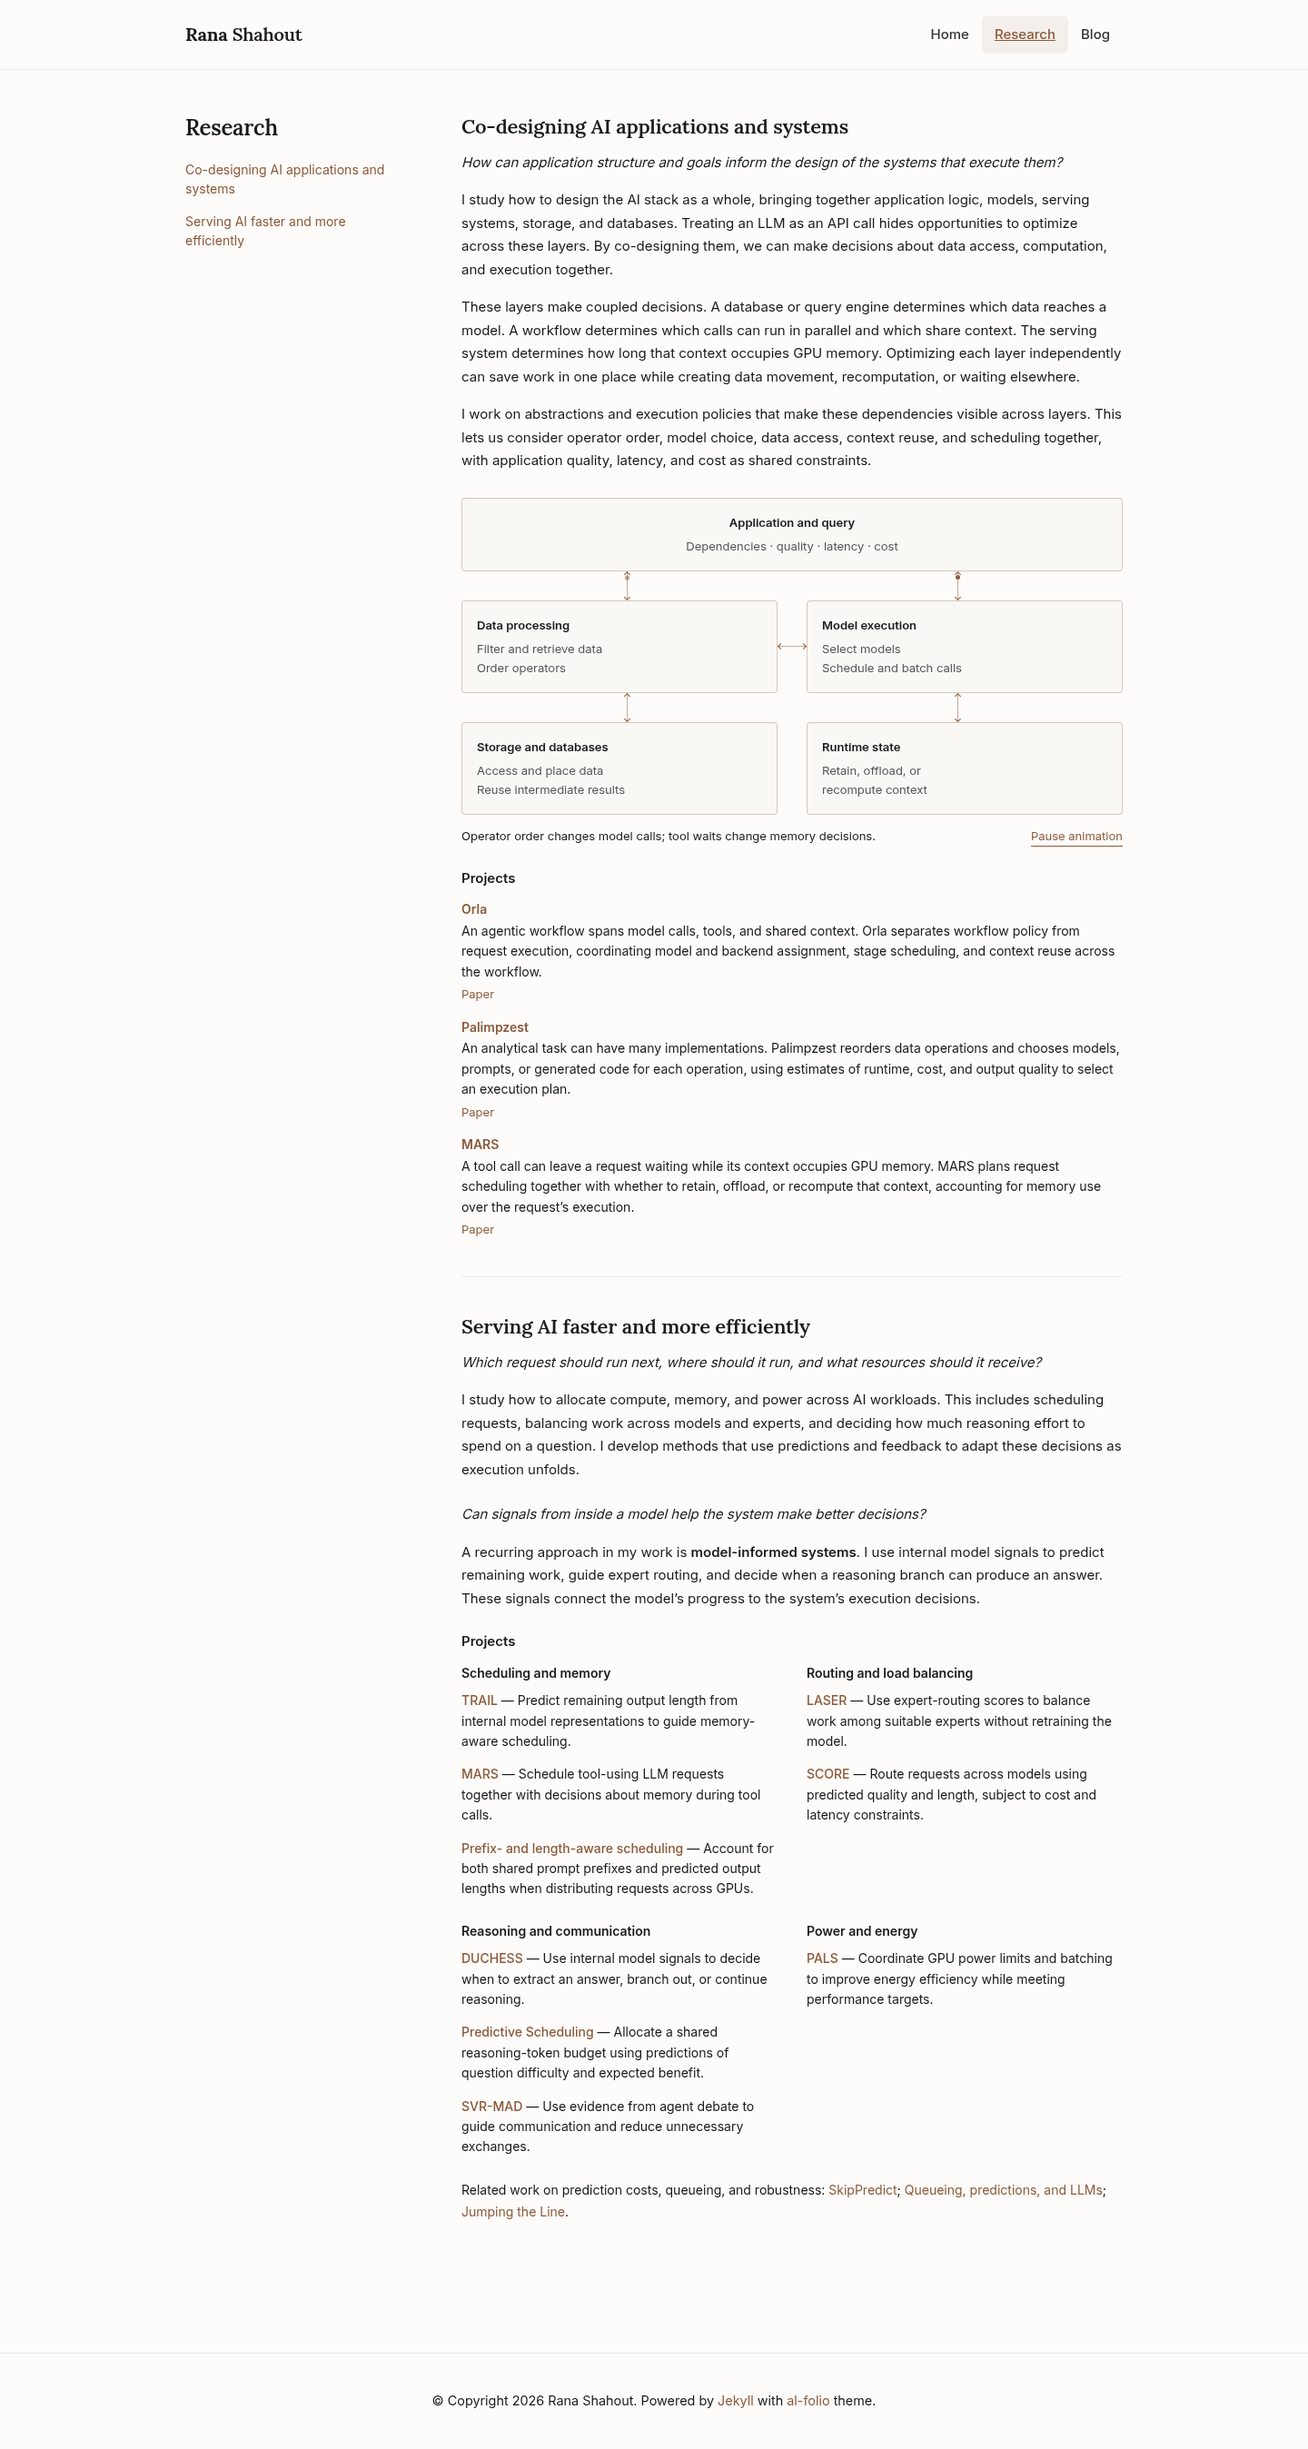
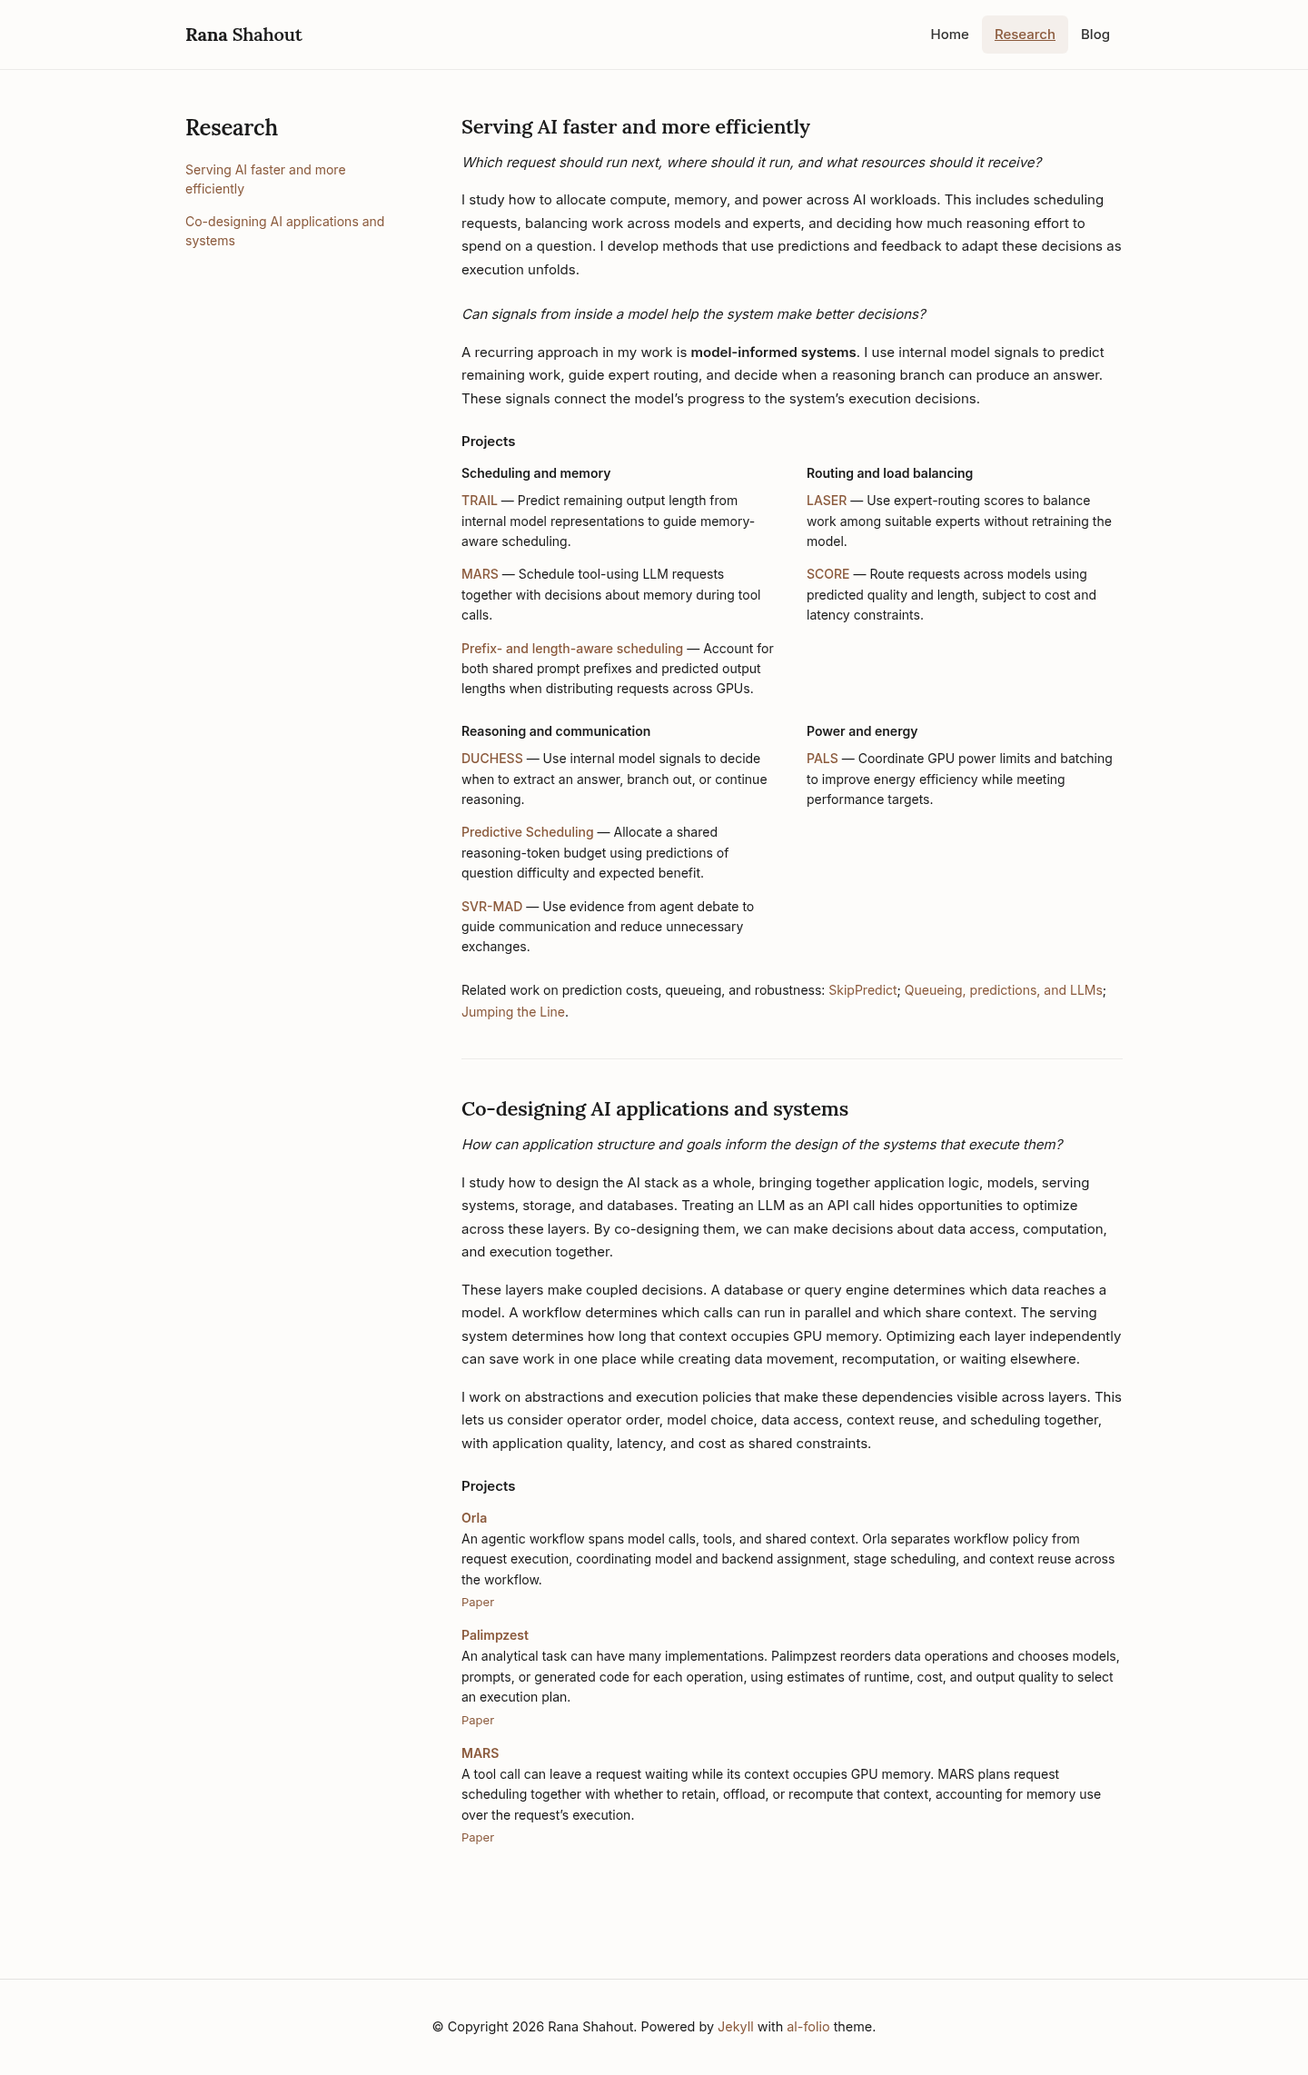
Lead research page with efficient serving and remove illustration

diff --git a/assets/css/research.css b/assets/css/research.css
@@ -300,195 +300,3 @@ body > header {
 .research-page .stack-explanation {
   margin-top: 1rem;
 }
-
-.stack-illustration {
-  margin: 1.75rem 0 0;
-}
-
-.stack-diagram {
-  font-size: 0.8125rem;
-  line-height: 1.6;
-}
-
-.stack-node {
-  display: flex;
-  flex-direction: column;
-  justify-content: center;
-  gap: 0.35rem;
-  padding: 1rem;
-  border: 1px solid rgba(139, 90, 60, 0.3);
-  border-radius: 4px;
-  background: rgba(139, 90, 60, 0.025);
-}
-
-.stack-node strong {
-  color: var(--home-text);
-}
-
-.stack-node > span {
-  color: #555;
-}
-
-.stack-application {
-  text-align: center;
-}
-
-.stack-row {
-  display: grid;
-  grid-template-columns: minmax(0, 1fr) 2rem minmax(0, 1fr);
-  align-items: stretch;
-}
-
-.stack-branches {
-  display: grid;
-  grid-template-columns: 1fr 1fr;
-  height: 2rem;
-}
-
-.stack-branch {
-  position: relative;
-  width: 1px;
-  height: 100%;
-  margin: auto;
-  background: rgba(139, 90, 60, 0.5);
-}
-
-.stack-branch::before,
-.stack-branch::after {
-  content: "";
-  position: absolute;
-  left: -2px;
-  width: 5px;
-  height: 5px;
-  border-top: 1px solid var(--home-link);
-  border-left: 1px solid var(--home-link);
-}
-
-.stack-branch::before {
-  top: 1px;
-  transform: rotate(45deg);
-}
-
-.stack-branch::after {
-  bottom: 1px;
-  transform: rotate(225deg);
-}
-
-.stack-crosslink {
-  align-self: center;
-  height: 1px;
-  position: relative;
-  background: rgba(139, 90, 60, 0.5);
-}
-
-.stack-crosslink::before,
-.stack-crosslink::after {
-  content: "";
-  position: absolute;
-  top: -2px;
-  width: 5px;
-  height: 5px;
-  border-top: 1px solid var(--home-link);
-  border-left: 1px solid var(--home-link);
-}
-
-.stack-crosslink::before {
-  left: 1px;
-  transform: rotate(-45deg);
-}
-
-.stack-crosslink::after {
-  right: 1px;
-  transform: rotate(135deg);
-}
-
-.flow-down,
-.flow-up {
-  display: block;
-  width: 5px;
-  height: 5px;
-  border-radius: 50%;
-  background: var(--home-link);
-  position: absolute;
-  left: -2px;
-  top: 4px;
-  animation: stack-flow 5s ease-in-out infinite;
-}
-
-.flow-up {
-  animation-direction: reverse;
-  animation-delay: 1s;
-}
-
-@keyframes stack-flow {
-  0%,
-  10% {
-    transform: translateY(0);
-    opacity: 0;
-  }
-  25%,
-  60% {
-    opacity: 1;
-  }
-  80%,
-  100% {
-    transform: translateY(20px);
-    opacity: 0;
-  }
-}
-
-.stack-illustration figcaption {
-  display: flex;
-  flex-wrap: wrap;
-  justify-content: space-between;
-  gap: 0.5rem 1rem;
-  margin-top: 0.75rem;
-  font-size: 0.8125rem;
-  color: #555;
-}
-
-.animation-toggle {
-  padding: 0;
-  border: 0;
-  border-bottom: 1px solid transparent;
-  background: none;
-  color: var(--home-link);
-  font: inherit;
-  cursor: pointer;
-}
-
-.animation-toggle:hover {
-  border-bottom-color: currentColor;
-}
-
-.animation-toggle:focus-visible {
-  outline: 2px solid var(--home-link);
-  outline-offset: 4px;
-}
-
-.stack-illustration.is-paused .flow-down,
-.stack-illustration.is-paused .flow-up {
-  animation-play-state: paused;
-}
-
-@media (max-width: 600px) {
-  .stack-node {
-    padding: 0.75rem;
-  }
-
-  .stack-row {
-    grid-template-columns: minmax(0, 1fr) 1.25rem minmax(0, 1fr);
-  }
-}
-
-@media (prefers-reduced-motion: reduce) {
-  .flow-down,
-  .flow-up {
-    animation: none;
-    display: none;
-  }
-
-  .animation-toggle {
-    display: none;
-  }
-}

diff --git a/_pages/projects.md b/_pages/projects.md
@@ -13,80 +13,12 @@ nav_order: 1
   <aside class="research-index" aria-label="Research overview">
     <h1>Research</h1>
     <nav aria-label="Research directions">
-      <a href="#co-design">Co-designing AI applications and systems</a>
       <a href="#serving">Serving AI faster and more efficiently</a>
+      <a href="#co-design">Co-designing AI applications and systems</a>
     </nav>
   </aside>
 
   <div class="research-content">
-    <section class="research-direction" id="co-design" aria-labelledby="co-design-title">
-      <h2 id="co-design-title">Co-designing AI applications and systems</h2>
-      <p class="research-question">How can application structure and goals inform the design of the systems that execute them?</p>
-      <p>I study how to design the AI stack as a whole, bringing together application logic, models, serving systems, storage, and databases. Treating an LLM as an API call hides opportunities to optimize across these layers. By co-designing them, we can make decisions about data access, computation, and execution together.</p>
-      <p class="stack-explanation">These layers make coupled decisions. A database or query engine determines which data reaches a model. A workflow determines which calls can run in parallel and which share context. The serving system determines how long that context occupies GPU memory. Optimizing each layer independently can save work in one place while creating data movement, recomputation, or waiting elsewhere.</p>
-      <p class="stack-explanation">I work on abstractions and execution policies that make these dependencies visible across layers. This lets us consider operator order, model choice, data access, context reuse, and scheduling together, with application quality, latency, and cost as shared constraints.</p>
-
-      <figure class="stack-illustration">
-        <div class="stack-diagram" role="img" aria-labelledby="stack-title stack-description">
-          <span class="sr-only" id="stack-title">Decisions across the AI stack</span>
-          <span class="sr-only" id="stack-description">Application dependencies and quality, latency, and cost constraints guide both data processing and model execution. Data processing determines which records and context reach model calls. Storage access and reuse support data processing; context retention, offloading, and recomputation support model execution. These decisions must be coordinated.</span>
-          <div class="stack-node stack-application" aria-hidden="true">
-            <strong>Application and query</strong>
-            <span>Dependencies · quality · latency · cost</span>
-          </div>
-          <div class="stack-branches" aria-hidden="true">
-            <span class="stack-branch"><span class="flow-down"></span></span>
-            <span class="stack-branch"><span class="flow-up"></span></span>
-          </div>
-          <div class="stack-row stack-execution" aria-hidden="true">
-            <div class="stack-node">
-              <strong>Data processing</strong>
-              <span>Filter and retrieve data<br>Order operators</span>
-            </div>
-            <span class="stack-crosslink"></span>
-            <div class="stack-node">
-              <strong>Model execution</strong>
-              <span>Select models<br>Schedule and batch calls</span>
-            </div>
-          </div>
-          <div class="stack-branches stack-lower-branches" aria-hidden="true">
-            <span class="stack-branch"></span>
-            <span class="stack-branch"></span>
-          </div>
-          <div class="stack-row" aria-hidden="true">
-            <div class="stack-node">
-              <strong>Storage and databases</strong>
-              <span>Access and place data<br>Reuse intermediate results</span>
-            </div>
-            <span></span>
-            <div class="stack-node">
-              <strong>Runtime state</strong>
-              <span>Retain, offload, or<br>recompute context</span>
-            </div>
-          </div>
-        </div>
-        <figcaption>
-          <span>Operator order changes model calls; tool waits change memory decisions.</span>
-          <button class="animation-toggle" type="button" aria-pressed="false" hidden>Pause animation</button>
-        </figcaption>
-      </figure>
-
-      <div class="research-projects">
-        <h3>Projects</h3>
-        <ul class="project-list">
-          {% for project in site.data.research.applications %}
-          {% assign paper = site.data.publications | where: "id", project.paper_id | first %}
-          <li>
-            {% assign project_link = project.project_url | default: paper.url %}
-            <h4><a href="{{ project_link | escape }}">{{ project.title | escape }}</a></h4>
-            <p>{{ project.description | escape }}</p>
-            <a class="paper-link" href="{{ paper.url | escape }}">Paper<span class="sr-only">: {{ paper.title | escape }}</span></a>
-          </li>
-          {% endfor %}
-        </ul>
-      </div>
-    </section>
-
     <section class="research-direction" id="serving" aria-labelledby="serving-title">
       <h2 id="serving-title">Serving AI faster and more efficiently</h2>
       <p class="research-question">Which request should run next, where should it run, and what resources should it receive?</p>
@@ -123,7 +55,29 @@ nav_order: 1
       </p>
     </section>
 
+    <section class="research-direction" id="co-design" aria-labelledby="co-design-title">
+      <h2 id="co-design-title">Co-designing AI applications and systems</h2>
+      <p class="research-question">How can application structure and goals inform the design of the systems that execute them?</p>
+      <p>I study how to design the AI stack as a whole, bringing together application logic, models, serving systems, storage, and databases. Treating an LLM as an API call hides opportunities to optimize across these layers. By co-designing them, we can make decisions about data access, computation, and execution together.</p>
+      <p class="stack-explanation">These layers make coupled decisions. A database or query engine determines which data reaches a model. A workflow determines which calls can run in parallel and which share context. The serving system determines how long that context occupies GPU memory. Optimizing each layer independently can save work in one place while creating data movement, recomputation, or waiting elsewhere.</p>
+      <p class="stack-explanation">I work on abstractions and execution policies that make these dependencies visible across layers. This lets us consider operator order, model choice, data access, context reuse, and scheduling together, with application quality, latency, and cost as shared constraints.</p>
+
+
+      <div class="research-projects">
+        <h3>Projects</h3>
+        <ul class="project-list">
+          {% for project in site.data.research.applications %}
+          {% assign paper = site.data.publications | where: "id", project.paper_id | first %}
+          <li>
+            {% assign project_link = project.project_url | default: paper.url %}
+            <h4><a href="{{ project_link | escape }}">{{ project.title | escape }}</a></h4>
+            <p>{{ project.description | escape }}</p>
+            <a class="paper-link" href="{{ paper.url | escape }}">Paper<span class="sr-only">: {{ paper.title | escape }}</span></a>
+          </li>
+          {% endfor %}
+        </ul>
+      </div>
+    </section>
+
   </div>
 </div>
-
-<script src="{{ '/assets/js/research.js' | relative_url }}" defer></script>

diff --git a/docs/HOMEPAGE_HANDOFF.md b/docs/HOMEPAGE_HANDOFF.md
@@ -70,20 +70,19 @@ website unchanged until the user approves deployment.
 
 The user approved and requested implementation of two research directions:
 co-designing AI applications and systems; and serving AI faster and more efficiently.
-Reasoning is part of resource allocation in the second direction. Model-informed
+Reasoning is part of resource allocation in the serving direction. Model-informed
 systems is a method, not a third research direction. The approved questions and
 paragraphs are preserved in `_pages/projects.md`. Project descriptions and groupings
 are in `_data/research.yml`, with paper links resolved from `publications.json`.
 
 The page uses `assets/css/research.css` to match the homepage. The old shared
-`research-site.css` is retained for the hidden publications page. One small HTML/CSS diagram
-illustrates application, data-processing, model-execution, storage, and runtime-state
-decisions, with CSS motion, a pause button,
-and reduced-motion support. Its controls are in `assets/js/research.js`.
+`research-site.css` is retained for the hidden publications page. The user subsequently
+requested removal of the illustration; its markup, CSS, script, and animation GIF
+have been removed.
 
 The new uploaded `assets/img/Rana_Shahout_013.JPG` is used on the homepage with a
 CSS crop. The original image is preserved. Blog and news content are unchanged.
-Updated review screenshots and an animation GIF are in `docs/design-preview/`.
+Updated review screenshots are in `docs/design-preview/`.
 Main and the live website still await deployment approval.
 
 ### Latest review revisions
@@ -91,8 +90,8 @@ Main and the live website still await deployment approval.
 Google Scholar, LinkedIn (`https://www.linkedin.com/in/rana-sh`), email, and GitHub
 are accessible inline SVG icon links on the homepage. Research no longer has
 Scholar/profile links. Source icon attribution is under `assets/icons/`.
-MARS appears in the first direction as well as scheduling/memory in the second.
-The first direction retains the approved opening and adds concrete explanation of
-cross-layer dependencies. Project descriptions now explain what is co-designed in
-Orla, Palimpzest, and MARS. The diagram is HTML/CSS so its text remains readable on
-mobile; it replaces the original generic three-layer SVG.
+MARS appears in the co-design direction as well as scheduling/memory in the serving direction.
+The co-design direction retains the approved opening and adds concrete explanation of
+cross-layer dependencies. Project descriptions explain what is co-designed in
+Orla, Palimpzest, and MARS. The latest requested order is serving first, co-design
+second, in both content and navigation. No illustration or animation remains.

diff --git a/docs/design-preview/README.md b/docs/design-preview/README.md
@@ -2,27 +2,19 @@
 
 The Research page uses Rana's approved questions and explanations for two directions:
 
-1. **Co-designing AI applications and systems** — Orla, Palimpzest, and MARS.
-2. **Serving AI faster and more efficiently** — scheduling, routing, reasoning,
+1. **Serving AI faster and more efficiently** — scheduling, routing, reasoning,
    communication, and power allocation. Model-informed systems is presented as a method.
+2. **Co-designing AI applications and systems** — Orla, Palimpzest, and MARS.
 
 Both pages use Inter body text, Lora headings, and the same warm palette.
 The homepage now uses the new portrait, framed without changing the original image.
 Google Scholar, LinkedIn, email, and GitHub icons appear on the homepage.
 Profile links have been removed from Research. The blog is unchanged.
 
-The Research page includes one small animated diagram. It has a pause control and
-becomes static when the reader requests reduced motion. The GIF below demonstrates
-the motion; the website uses HTML and CSS.
-
-The first direction now explains how query planning, model selection, workflow
-dependencies, data access, and context lifetime constrain one another. Its diagram
-shows the decisions in data processing, model execution, storage, and runtime state.
-The project descriptions explain the specific cross-layer decisions each system makes.
-
-## Animated diagram
-
-![Information moving between application, serving, and data layers](research-stack.gif)
+The serving direction appears first in both the page and its navigation.
+The illustration and animation controls have been removed. The co-design section
+explains the connections between query planning, model selection, workflow
+dependencies, data access, and context lifetime.
 
 ## Research — desktop
 
@@ -42,8 +34,8 @@ The project descriptions explain the specific cross-layer decisions each system 
 
 Validated with a Jekyll build, formatting and style checks, and Chromium at
 1440px, 820px, 390px, and 320px widths. Checks cover the approved text, project links,
-font loading, overflow, section navigation, mobile navigation, animation controls,
-and reduced motion. A pre-existing template error (`addBackToTop is not defined`)
+font loading, overflow, section order, section navigation, mobile navigation,
+and the removal of the illustration and its script. A pre-existing template error (`addBackToTop is not defined`)
 also occurs on the unchanged Blog page; the new page adds no browser errors.
 
 These previews do not change the live website.
